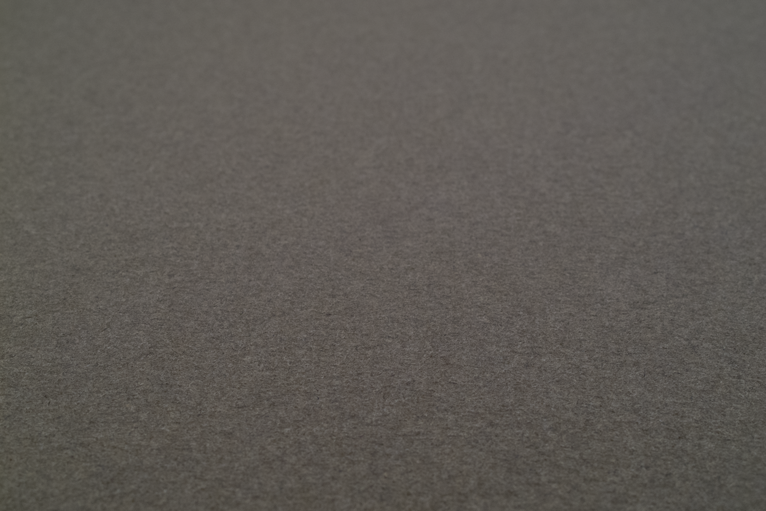
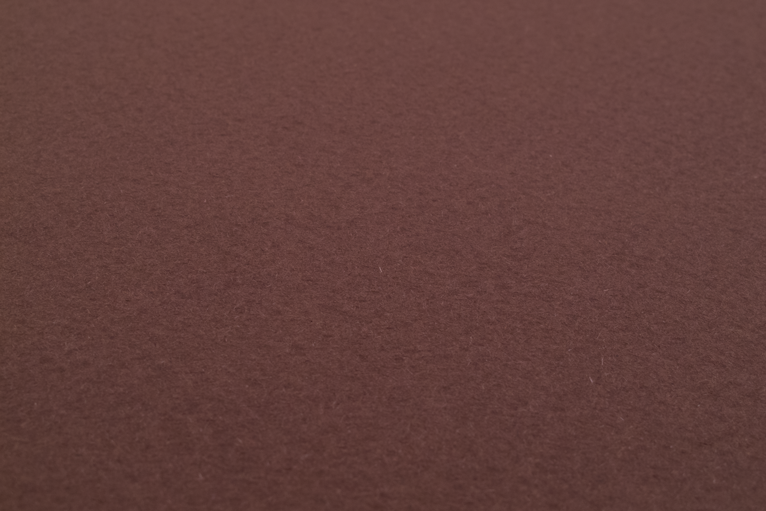
Add paper items

diff --git a/src/js/components/Paper.js b/src/js/components/Paper.js
@@ -2,6 +2,7 @@ import React, { Component } from 'react';
 import Row from 'antd/lib/row';
 import { bindActionCreators } from 'redux';
 import { connect } from 'react-redux';
+import classNames from 'classnames';
 import { choosePaper } from '../actions/index';
 import Paper1 from '../../images/paper_1.png';
 import Paper2 from '../../images/paper_2.png';
@@ -11,13 +12,27 @@ import Paper5 from '../../images/paper_5.png';
 import Paper6 from '../../images/paper_6.png';
 import Paper7 from '../../images/paper_7.png';
 import Paper8 from '../../images/paper_8.png';
+import Paper9 from '../../images/paper_9.png';
+
+const papers = [
+    { paper: Paper1, type: 'Vagues' },
+    { paper: Paper2, type: 'Bulles' },
+    { paper: Paper3, type: 'Brume' },
+    { paper: Paper4, type: 'Pamplemousse' },
+    { paper: Paper5, type: 'Pamplemousse bleu' },
+    { paper: Paper6, type: 'Marron' },
+    { paper: Paper7, type: 'Pourpre' },
+    { paper: Paper8, type: 'Gris' },
+    { paper: Paper9, type: 'Noir' },
+];
+
+const description = 'Ces papiers ont été réalisés de manière artisanale par les artistes Zeynep Uysal Kog et Katalin Perry (papiers marbrés à la "cuve").';
 
 class Paper extends Component {
     constructor(props) {
         super(props);
-        this.state = {
-            paper: props.book.paper,
-        };
+        this.state = { paper: props.paper };
+        this.handleChangePaper.bind(this);
     }
 
     handleChangePaper(value) {
@@ -25,57 +40,25 @@ class Paper extends Component {
         this.setState({ paper: value });
     }
 
-    modernPaperRender() {
-        return (<div>
-            <p className="title">Choisis ton papier <span className="hint--top hint--large" aria-label='Ces papiers ont été réalisés de manière artisanale par les artistes Zeynep Uysal Kog et Katalin Perry (papiers marbrés à la "cuve").'><span className="link">[Plus d&apos;infos]</span></span> :</p>
-            <div className="choices paper">
-                <div className={this.state.paper === 1 ? 'choice active' : 'choice'} onClick={() => this.handleChangePaper(1)}>
-                    <img src={Paper1} alt="paper1" onDragStart={false} />
-                    <span>Vagues</span>
-                </div>
-                <div className={this.state.paper === 2 ? 'choice active' : 'choice'} onClick={() => this.handleChangePaper(2)}>
-                    <img src={Paper2} alt="paper2" />
-                    <span>Bulles</span>
-                </div>
-                <div className={this.state.paper === 3 ? 'choice active' : 'choice'} onClick={() => this.handleChangePaper(3)}>
-                    <img src={Paper3} alt="paper3" />
-                    <span>Brume</span>
-                </div>
-                <div className={this.state.paper === 4 ? 'choice active' : 'choice'} onClick={() => this.handleChangePaper(4)}>
-                    <img src={Paper4} alt="paper4" />
-                    <span>Pamplemousse</span>
-                </div>
-            </div>
-        </div>);
-    }
-
-    conservationPaperRender() {
-        return (<div>
-            <p className="title">Choisis ton papier :</p>
-            <div className="choices paper">
-                <div className={this.state.paper === 5 ? 'choice active' : 'choice'} onClick={() => this.handleChangePaper(5)}>
-                    <img src={Paper5} alt="paper5" />
-                    <span>Marron</span>
-                </div>
-                <div className={this.state.paper === 6 ? 'choice active' : 'choice'} onClick={() => this.handleChangePaper(6)}>
-                    <img src={Paper6} alt="paper6" />
-                    <span>Pourpre</span>
-                </div>
-                <div className={this.state.paper === 7 ? 'choice active' : 'choice'} onClick={() => this.handleChangePaper(7)}>
-                    <img src={Paper7} alt="paper7" />
-                    <span>Gris</span>
-                </div>
-                <div className={this.state.paper === 8 ? 'choice active' : 'choice'} onClick={() => this.handleChangePaper(8)}>
-                    <img src={Paper8} alt="paper8" />
-                    <span>Noir</span>
-                </div>
-            </div>
+    paperRender(paper, type) {
+        return (<div key={paper} className={classNames('choice', { active: this.state.paper === paper })} onClick={() => this.handleChangePaper(paper)}>
+            <img src={paper} alt="paper" onDragStart={false} />
+            <span>{type}</span>
         </div>);
     }
 
     render() {
         return (<Row>
-            { this.props.book.bookbinding === 'modern' ? this.modernPaperRender() : this.conservationPaperRender() }
+            <p className="title">Choisis ton papier <span className="hint--top hint--large" aria-label={description}>
+                <span className={classNames('link', { hide: this.props.book.bookbinding !== 'modern' })}>[Plus d&apos;infos]</span></span> :
+            </p>
+            <div className="choices paper">
+                {
+                    this.props.book.bookbinding === 'modern' ?
+                    papers.slice(0, 5).map(({ paper, type }) => this.paperRender(paper, type)) :
+                    papers.slice(5).map(({ paper, type }) => this.paperRender(paper, type))
+                }
+            </div>
         </Row>);
     }
 }

diff --git a/src/css/main.scss b/src/css/main.scss
@@ -120,13 +120,13 @@
         &.paper, &.wire {
             img {
                 transition: 0.4s ease;
-                width: 200px;
+                width: 210px;
             }
 
             .choice {
                 float: left;
                 position: relative;
-                width: 200px;
+                width: 210px;
                 overflow: hidden;
                 max-height: 140px;
             }
@@ -280,6 +280,10 @@
                 max-height: $height-gallery;
             }
         }
+    }
+
+    .hide {
+        display: none;
     }
 }
 

diff --git a/src/js/components/BookBinding.js b/src/js/components/BookBinding.js
@@ -1,4 +1,4 @@
-import React, { Component } from 'react';
+import React from 'react';
 import Button from 'antd/lib/button';
 import Row from 'antd/lib/row';
 import { bindActionCreators } from 'redux';
